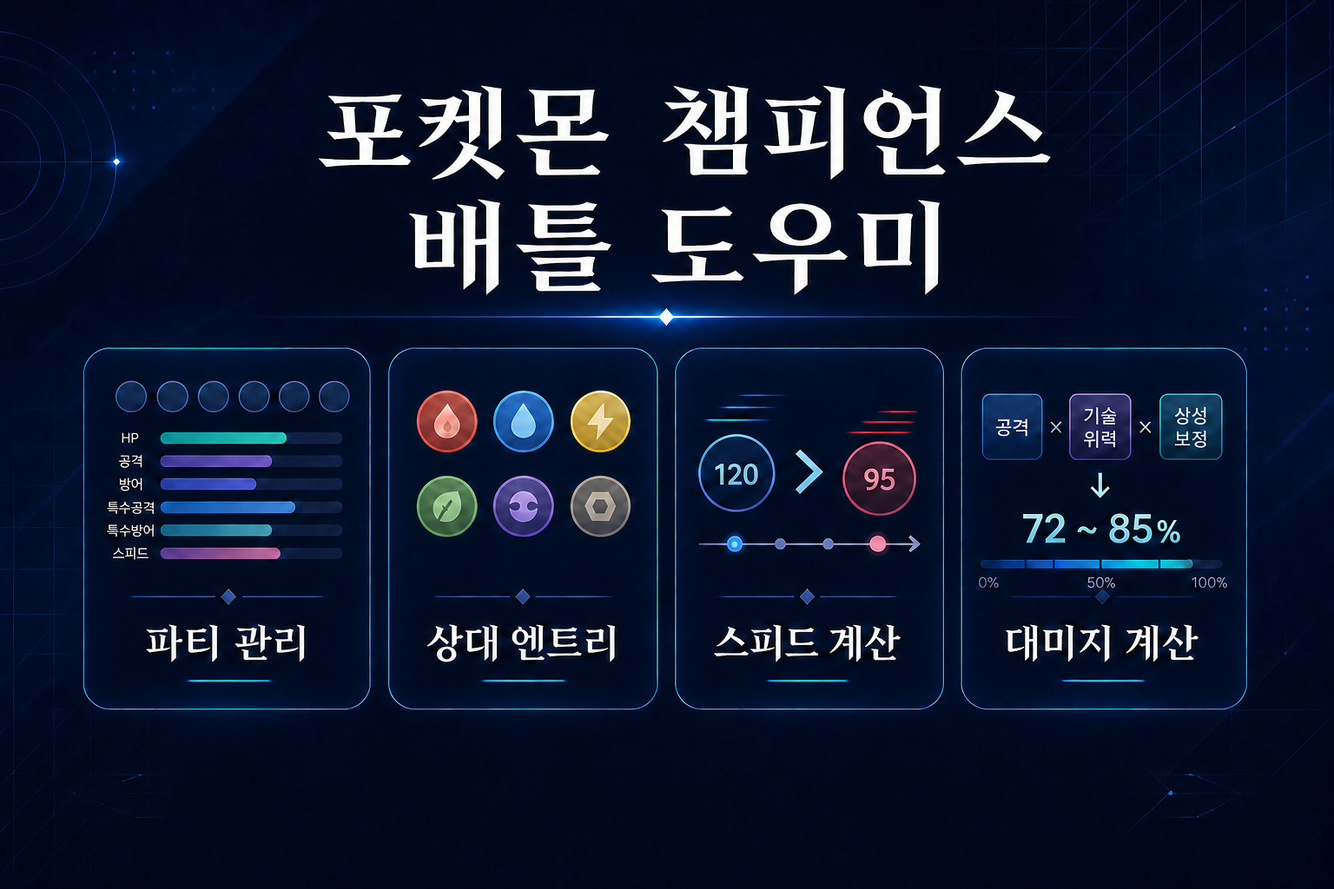
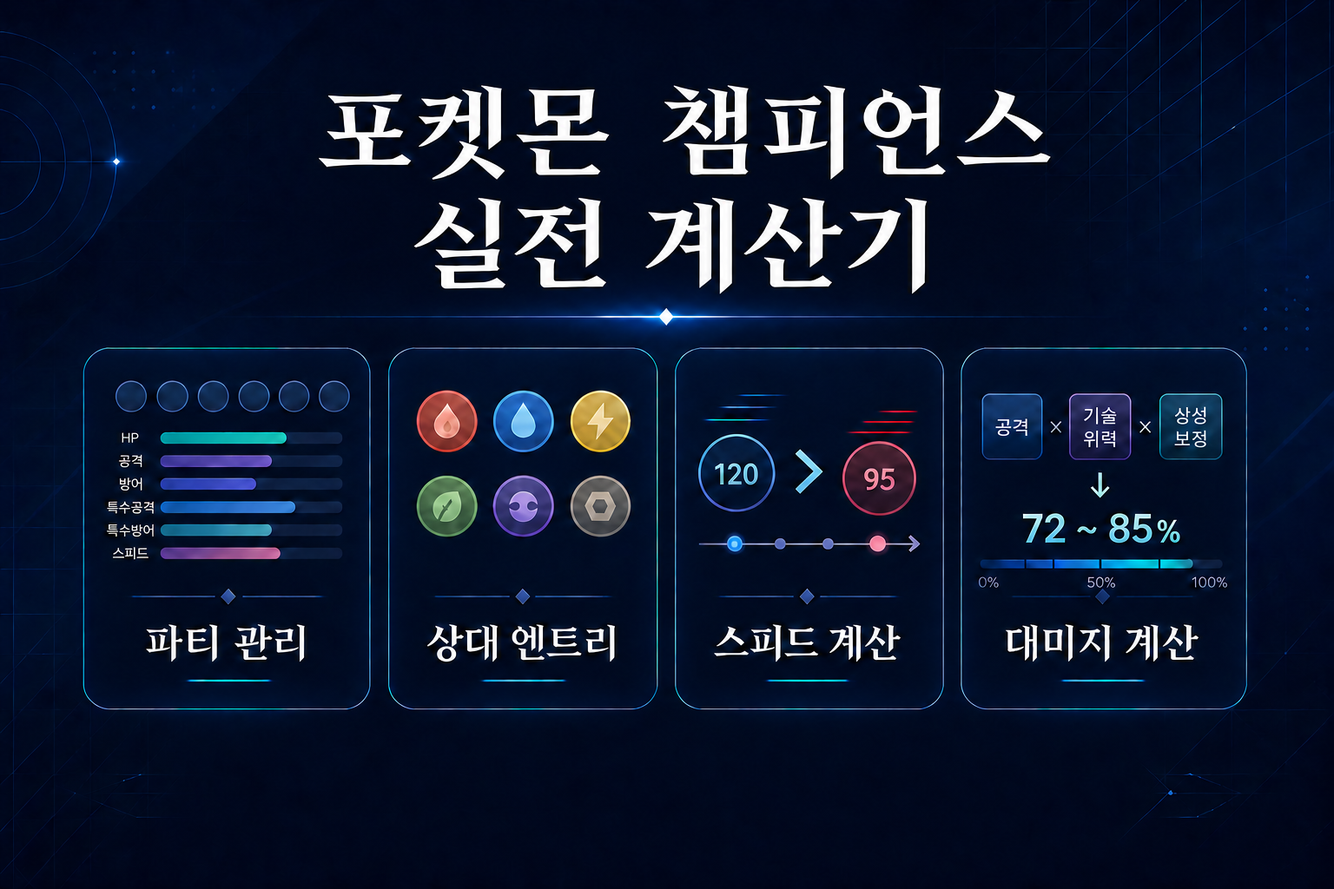
feat: rename service to practical calculator (#42)

diff --git a/src/shared/display/translation.ts b/src/shared/display/translation.ts
@@ -53,7 +53,7 @@ export const UI_TRANSLATIONS: Record<'en' | 'ja', Record<string, string>> = {
     '내 파티 추월컷': 'My Team Speed Cutoffs', '상대 기준': 'Opponent Target', '기준 속도': 'Target Speed', '추월컷': 'Pass', '동속컷': 'Tie', '이미 추월': 'Already ahead', '불가': 'No line', '실전 상태': 'Battle State', '내가 앞섬': 'Ahead', '상대가 앞섬': 'Behind', '동속': 'Tie', '일반': 'Base', '메가': 'Mega', '내 포켓몬': 'My Pokémon', '상대 포켓몬': 'Opponent Pokémon', '기준선': 'Baseline',
     '준속': 'Neutral', '최속': 'Fast', '상한': 'Upper', '하한': 'Lower', '준속 스카프': 'Neutral Scarf', '최속 스카프': 'Fast Scarf', '선택한 상대 없음': 'No opponent selected', '스피드 비교 그래프': 'Speed Comparison Graph',
     '위력': 'Power', '공격분류': 'Category', '물리': 'Physical', '특수': 'Special', '없음': 'None', '무효': 'No effect', '상성': 'Effectiveness', '확정 1타 가능성 있음': 'Possible OHKO', '유리한 2타권': 'Favorable 2HKO', '즉시 마무리 어려움': 'Hard to finish immediately', '상대 엔트리에서 계산 대상 포켓몬을 먼저 채워 주세요.': 'Fill an opponent target first.',
-    '빈 슬롯': 'Empty Slot', '현재': 'Current', '추가 가능': 'Available', '파티 관리': 'Party', '언어 선택': 'Choose language', '한국어': 'Korean', '영어': 'English', '일본어': 'Japanese', '추월컷 계산': 'Speed cutoff calc', '현재 속도': 'Current Speed', '체력 EV': 'HP EV', '방어 EV': 'Defense EV', '특수방어 EV': 'Sp. Def EV', '+방어': '+Defense', '+특수방어': '+Sp. Def', '특방+': 'Sp. Def+', '방어+': 'Defense+', '실대미지': 'Damage', '체력비율': 'HP Percent', '확정 N타': 'KO Count', '계산 상태': 'Result', '자속': 'STAB', '상대 체력': 'Opponent HP', '상대 방어': 'Opponent Defense', '상대 특수방어': 'Opponent Sp. Def', '+특수방어 성격': '+Sp. Def nature', '판정': 'Verdict', '대미지': 'Damage', '비율': 'Percent', '접기': 'Collapse', '펼치기': 'Expand', '세부 조건': 'Detailed conditions', '대미지 계산 불가': 'Damage calc unavailable', '샘플 이름 예시': 'e.g. Jolly Scarf draft', '상대 메모 예시': 'e.g. likely physical set', '엔트리 메모 예시': 'e.g. Dragapult may be Scarf / Rotom revealed Volt Switch / Mimikyu looks like late-game cleaner', '포켓몬 챔피언스 배틀 도우미': 'Pokémon Champions Battle Assistant', '파티 관리, 상대 엔트리, 스피드 계산, 대미지 계산을 한곳에서 정리하는 포켓몬 챔피언스 배틀 도구': 'A Pokémon Champions battle tool for party management, opponent entry, speed checks, and damage calculations in one place.', '포켓몬 챔피언스 배틀 도우미 대표 이미지': 'Pokémon Champions Battle Assistant preview image', '불러오기 실패: JSON 형식을 확인하세요.': 'Import failed: please check the JSON format.', '한 번에 모든 기능을 밀어넣지 않고, 지금 필요한 작업부터 시작합니다.': 'Start from the task you need now instead of dumping every feature at once.', '이 홈은 길찾기 화면입니다. 배틀 준비, 샘플 조정, 도감 확인 중 하나만 고르면 바로 들어갑니다.': 'This home screen is a routing layer. Pick battle prep, sample tuning, or dex lookup and jump straight in.', '사용 흐름': 'Workflow', '바로 시작': 'Start here', '싱글/더블 배틀 준비': 'Battle prep', '샘플 조정 / 자료 확인': 'Build & reference', '파티, 선출, 속도, 대미지 계산을 한 흐름으로 정리합니다.': 'Keep party, picks, speed, and damage in one flow.', '포켓몬 한 마리를 조정하거나 도감 정보를 빠르게 확인합니다.': 'Tune one Pokémon or look up key dex information quickly.', '싱글 배틀 운영': 'Singles workflow', '더블 배틀 운영': 'Doubles workflow', '샘플 조정': 'Sample tuning', '도감 확인': 'Dex lookup', '추천 시작점': 'Recommended start', '자주 쓰는 흐름만 앞에 두고, 세부 기능은 들어간 뒤에 보여 줍니다.': 'Only the common workflows sit up front. Detailed controls stay inside each tool.', '현재 흐름': 'Current workflow', '파티부터 채우고, 상대 공개 정보를 적은 뒤 계산 단계로 넘어갑니다.': 'Start with your party, record revealed opponent info, then move into the calculators.', '더블은 파티와 상대 정리 후 플래너에서 턴 흐름을 봅니다.': 'For doubles, set party and opponent info first, then move into the planner.', '내 포켓몬과 기술 기준을 정리합니다.': 'Set your Pokémon and move baseline first.', '상대 공개 정보와 가정을 정리합니다.': 'Record revealed opponent info and assumptions.', '추월컷과 속도선을 확인합니다.': 'Check cutoffs and speed lines.', '기술 대미지와 조건을 맞춥니다.': 'Check move damage and conditions.', '더블 기준 화력과 행동순을 정리합니다.': 'Review doubles damage and action flow.', '이 화면에서 하는 일': 'What this screen does', '입력 순서': 'Input order', '현재 기준 정보': 'Current context', '내 파티/상대 엔트리를 먼저 맞추면 계산이 덜 흔들립니다.': 'The calculator is more stable once party and opponent entry are set first.', '내 기술 선택 → 상대 기준 확인 → 화력 조건 조정 순서로 보면 됩니다.': 'Use the flow: pick your move → confirm the target baseline → adjust battle conditions.', '선택된 기술': 'Selected move',
+    '빈 슬롯': 'Empty Slot', '현재': 'Current', '추가 가능': 'Available', '파티 관리': 'Party', '언어 선택': 'Choose language', '한국어': 'Korean', '영어': 'English', '일본어': 'Japanese', '추월컷 계산': 'Speed cutoff calc', '현재 속도': 'Current Speed', '체력 EV': 'HP EV', '방어 EV': 'Defense EV', '특수방어 EV': 'Sp. Def EV', '+방어': '+Defense', '+특수방어': '+Sp. Def', '특방+': 'Sp. Def+', '방어+': 'Defense+', '실대미지': 'Damage', '체력비율': 'HP Percent', '확정 N타': 'KO Count', '계산 상태': 'Result', '자속': 'STAB', '상대 체력': 'Opponent HP', '상대 방어': 'Opponent Defense', '상대 특수방어': 'Opponent Sp. Def', '+특수방어 성격': '+Sp. Def nature', '판정': 'Verdict', '대미지': 'Damage', '비율': 'Percent', '접기': 'Collapse', '펼치기': 'Expand', '세부 조건': 'Detailed conditions', '대미지 계산 불가': 'Damage calc unavailable', '샘플 이름 예시': 'e.g. Jolly Scarf draft', '상대 메모 예시': 'e.g. likely physical set', '엔트리 메모 예시': 'e.g. Dragapult may be Scarf / Rotom revealed Volt Switch / Mimikyu looks like late-game cleaner', '포켓몬 챔피언스 실전 계산기': 'Pokémon Champions Battle Calculator', '파티 관리, 상대 엔트리, 스피드 계산, 대미지 계산을 한곳에서 정리하는 포켓몬 챔피언스 배틀 도구': 'A Pokémon Champions battle tool for party management, opponent entry, speed checks, and damage calculations in one place.', '포켓몬 챔피언스 실전 계산기 대표 이미지': 'Pokémon Champions Battle Calculator preview image', '불러오기 실패: JSON 형식을 확인하세요.': 'Import failed: please check the JSON format.', '한 번에 모든 기능을 밀어넣지 않고, 지금 필요한 작업부터 시작합니다.': 'Start from the task you need now instead of dumping every feature at once.', '이 홈은 길찾기 화면입니다. 배틀 준비, 샘플 조정, 도감 확인 중 하나만 고르면 바로 들어갑니다.': 'This home screen is a routing layer. Pick battle prep, sample tuning, or dex lookup and jump straight in.', '사용 흐름': 'Workflow', '바로 시작': 'Start here', '싱글/더블 배틀 준비': 'Battle prep', '샘플 조정 / 자료 확인': 'Build & reference', '파티, 선출, 속도, 대미지 계산을 한 흐름으로 정리합니다.': 'Keep party, picks, speed, and damage in one flow.', '포켓몬 한 마리를 조정하거나 도감 정보를 빠르게 확인합니다.': 'Tune one Pokémon or look up key dex information quickly.', '싱글 배틀 운영': 'Singles workflow', '더블 배틀 운영': 'Doubles workflow', '샘플 조정': 'Sample tuning', '도감 확인': 'Dex lookup', '추천 시작점': 'Recommended start', '자주 쓰는 흐름만 앞에 두고, 세부 기능은 들어간 뒤에 보여 줍니다.': 'Only the common workflows sit up front. Detailed controls stay inside each tool.', '현재 흐름': 'Current workflow', '파티부터 채우고, 상대 공개 정보를 적은 뒤 계산 단계로 넘어갑니다.': 'Start with your party, record revealed opponent info, then move into the calculators.', '더블은 파티와 상대 정리 후 플래너에서 턴 흐름을 봅니다.': 'For doubles, set party and opponent info first, then move into the planner.', '내 포켓몬과 기술 기준을 정리합니다.': 'Set your Pokémon and move baseline first.', '상대 공개 정보와 가정을 정리합니다.': 'Record revealed opponent info and assumptions.', '추월컷과 속도선을 확인합니다.': 'Check cutoffs and speed lines.', '기술 대미지와 조건을 맞춥니다.': 'Check move damage and conditions.', '더블 기준 화력과 행동순을 정리합니다.': 'Review doubles damage and action flow.', '이 화면에서 하는 일': 'What this screen does', '입력 순서': 'Input order', '현재 기준 정보': 'Current context', '내 파티/상대 엔트리를 먼저 맞추면 계산이 덜 흔들립니다.': 'The calculator is more stable once party and opponent entry are set first.', '내 기술 선택 → 상대 기준 확인 → 화력 조건 조정 순서로 보면 됩니다.': 'Use the flow: pick your move → confirm the target baseline → adjust battle conditions.', '선택된 기술': 'Selected move',
     '노력': 'Hardy', '외로움': 'Lonely', '용감': 'Brave', '고집': 'Adamant', '개구쟁이': 'Naughty', '대담': 'Bold', '온순': 'Docile', '무사태평': 'Relaxed', '장난꾸러기': 'Impish', '촐랑': 'Lax', '겁쟁이': 'Timid', '성급': 'Hasty', '성실': 'Serious', '명랑': 'Jolly', '천진난만': 'Naive', '조심': 'Modest', '의젓': 'Mild', '냉정': 'Quiet', '수줍음': 'Bashful', '덜렁': 'Rash', '차분': 'Calm', '얌전': 'Gentle', '건방': 'Sassy', '신중': 'Careful', '변덕': 'Quirky',
   },
   ja: {
@@ -109,7 +109,7 @@ export const UI_TRANSLATIONS: Record<'en' | 'ja', Record<string, string>> = {
     '내 파티 추월컷': '自分の抜きライン', '상대 기준': '相手基準', '기준 속도': '基準素早さ', '추월컷': '抜き', '동속컷': '同速', '이미 추월': 'すでに上', '불가': '不可', '실전 상태': '対面状態', '내가 앞섬': '上', '상대가 앞섬': '下', '동속': '同速', '일반': '通常', '메가': 'メガ', '내 포켓몬': '自分のポケモン', '상대 포켓몬': '相手ポケモン', '기준선': '基準線',
     '준속': '準速', '최속': '最速', '상한': '上限', '하한': '下限', '준속 스카프': '準速スカーフ', '최속 스카프': '最速スカーフ', '선택한 상대 없음': '相手未選択', '스피드 비교 그래프': '素早さ比較グラフ',
     '위력': '威力', '공격분류': '攻撃分類', '물리': '物理', '특수': '特殊', '없음': 'なし', '무효': '無効', '상성': '相性', '확정 1타 가능성 있음': '一撃圏の可能性あり', '유리한 2타권': '有利な2発圏内', '즉시 마무리 어려움': '即処理は難しい', '상대 엔트리에서 계산 대상 포켓몬을 먼저 채워 주세요.': '先に相手エントリーへ計算対象のポケモンを入れてください。',
-    '빈 슬롯': '空きスロット', '현재': '現在', '추가 가능': '追加可能', '파티 관리': 'パーティ管理', '언어 선택': '言語選択', '한국어': '韓国語', '영어': '英語', '일본어': '日本語', '추월컷 계산': '抜きライン計算', '현재 속도': '現在の素早さ', '체력 EV': 'HP努力値', '방어 EV': '防御努力値', '특수방어 EV': '特防努力値', '+방어': '+防御', '+특수방어': '+特防', '특방+': '特防+', '방어+': '防御+', '실대미지': '実ダメージ', '체력비율': 'HP割合', '확정 N타': '確定N発', '계산 상태': '計算状態', '자속': '一致', '상대 체력': '相手HP', '상대 방어': '相手防御', '상대 특수방어': '相手特防', '+특수방어 성격': '+特防性格', '판정': '判定', '대미지': 'ダメージ', '비율': '割合', '접기': '折りたたむ', '펼치기': '展開', '세부 조건': '詳細条件', '대미지 계산 불가': 'ダメージ計算不可', '샘플 이름 예시': '例: ようきスカーフ案', '상대 메모 예시': '例: 物理型の可能性高め', '엔트리 메모 예시': '例: ドラパルトはスカーフかも / ロトムはボルチェン公開 / ミミッキュは終盤スイーパー寄り', '포켓몬 챔피언스 배틀 도우미': 'ポケモンチャンピオンズ バトルアシスタント', '파티 관리, 상대 엔트리, 스피드 계산, 대미지 계산을 한곳에서 정리하는 포켓몬 챔피언스 배틀 도구': 'パーティ管理・相手エントリー・素早さ計算・ダメージ計算を1か所でまとめられるポケモンチャンピオンズのバトルツール。', '포켓몬 챔피언스 배틀 도우미 대표 이미지': 'ポケモンチャンピオンズ バトルアシスタントのプレビュー画像', '불러오기 실패: JSON 형식을 확인하세요.': '読み込みに失敗しました。JSON形式を確認してください。', '한 번에 모든 기능을 밀어넣지 않고, 지금 필요한 작업부터 시작합니다.': '一度にすべての機能を押しつけず、今必要な作業から始める。', '이 홈은 길찾기 화면입니다. 배틀 준비, 샘플 조정, 도감 확인 중 하나만 고르면 바로 들어갑니다.': 'このホームは案内板だ。バトル準備、サンプル調整、図鑑確認のどれか一つを選べばすぐ入れる。', '사용 흐름': '使用フロー', '바로 시작': 'ここから開始', '싱글/더블 배틀 준비': 'バトル準備', '샘플 조정 / 자료 확인': '調整 / 参照', '파티, 선출, 속도, 대미지 계산을 한 흐름으로 정리합니다.': 'パーティ、選出、素早さ、ダメージ計算を一つの流れで整理する。', '포켓몬 한 마리를 조정하거나 도감 정보를 빠르게 확인합니다.': '1匹を調整したり、図鑑情報をすばやく確認したりする。', '싱글 배틀 운영': 'シングル運用', '더블 배틀 운영': 'ダブル運用', '샘플 조정': 'サンプル調整', '도감 확인': '図鑑確認', '추천 시작점': 'おすすめの入口', '자주 쓰는 흐름만 앞에 두고, 세부 기능은 들어간 뒤에 보여 줍니다.': 'よく使う流れだけ前に出し、細かい機能は中に入ってから見せる。', '현재 흐름': '現在のフロー', '파티부터 채우고, 상대 공개 정보를 적은 뒤 계산 단계로 넘어갑니다.': 'まず自分のパーティを埋め、相手の公開情報を書いてから計算に進む。', '더블은 파티와 상대 정리 후 플래너에서 턴 흐름을 봅니다.': 'ダブルはパーティと相手情報を整えたあと、プランナーでターンの流れを見る。', '내 포켓몬과 기술 기준을 정리합니다.': '自分のポケモンと技の基準を整える。', '상대 공개 정보와 가정을 정리합니다.': '相手の公開情報と想定を整理する。', '추월컷과 속도선을 확인합니다.': '抜きラインと素早さ帯を確認する。', '기술 대미지와 조건을 맞춥니다.': '技ダメージと条件を合わせる。', '더블 기준 화력과 행동순을 정리합니다.': 'ダブル基準の火力と行動順を整理する。', '이 화면에서 하는 일': 'この画面でやること', '입력 순서': '入力順', '현재 기준 정보': '現在の基準情報', '내 파티/상대 엔트리를 먼저 맞추면 계산이 덜 흔들립니다.': '自分のパーティと相手エントリーを先に整えると計算がぶれにくい。', '내 기술 선택 → 상대 기준 확인 → 화력 조건 조정 순서로 보면 됩니다.': '自分の技選択 → 相手基準確認 → 火力条件調整の順で見ればいい。', '선택된 기술': '選択中の技',
+    '빈 슬롯': '空きスロット', '현재': '現在', '추가 가능': '追加可能', '파티 관리': 'パーティ管理', '언어 선택': '言語選択', '한국어': '韓国語', '영어': '英語', '일본어': '日本語', '추월컷 계산': '抜きライン計算', '현재 속도': '現在の素早さ', '체력 EV': 'HP努力値', '방어 EV': '防御努力値', '특수방어 EV': '特防努力値', '+방어': '+防御', '+특수방어': '+特防', '특방+': '特防+', '방어+': '防御+', '실대미지': '実ダメージ', '체력비율': 'HP割合', '확정 N타': '確定N発', '계산 상태': '計算状態', '자속': '一致', '상대 체력': '相手HP', '상대 방어': '相手防御', '상대 특수방어': '相手特防', '+특수방어 성격': '+特防性格', '판정': '判定', '대미지': 'ダメージ', '비율': '割合', '접기': '折りたたむ', '펼치기': '展開', '세부 조건': '詳細条件', '대미지 계산 불가': 'ダメージ計算不可', '샘플 이름 예시': '例: ようきスカーフ案', '상대 메모 예시': '例: 物理型の可能性高め', '엔트리 메모 예시': '例: ドラパルトはスカーフかも / ロトムはボルチェン公開 / ミミッキュは終盤スイーパー寄り', '포켓몬 챔피언스 실전 계산기': 'ポケモンチャンピオンズ 実戦計算ツール', '파티 관리, 상대 엔트리, 스피드 계산, 대미지 계산을 한곳에서 정리하는 포켓몬 챔피언스 배틀 도구': 'パーティ管理・相手エントリー・素早さ計算・ダメージ計算を1か所でまとめられるポケモンチャンピオンズのバトルツール。', '포켓몬 챔피언스 실전 계산기 대표 이미지': 'ポケモンチャンピオンズ 実戦計算ツールのプレビュー画像', '불러오기 실패: JSON 형식을 확인하세요.': '読み込みに失敗しました。JSON形式を確認してください。', '한 번에 모든 기능을 밀어넣지 않고, 지금 필요한 작업부터 시작합니다.': '一度にすべての機能を押しつけず、今必要な作業から始める。', '이 홈은 길찾기 화면입니다. 배틀 준비, 샘플 조정, 도감 확인 중 하나만 고르면 바로 들어갑니다.': 'このホームは案内板だ。バトル準備、サンプル調整、図鑑確認のどれか一つを選べばすぐ入れる。', '사용 흐름': '使用フロー', '바로 시작': 'ここから開始', '싱글/더블 배틀 준비': 'バトル準備', '샘플 조정 / 자료 확인': '調整 / 参照', '파티, 선출, 속도, 대미지 계산을 한 흐름으로 정리합니다.': 'パーティ、選出、素早さ、ダメージ計算を一つの流れで整理する。', '포켓몬 한 마리를 조정하거나 도감 정보를 빠르게 확인합니다.': '1匹を調整したり、図鑑情報をすばやく確認したりする。', '싱글 배틀 운영': 'シングル運用', '더블 배틀 운영': 'ダブル運用', '샘플 조정': 'サンプル調整', '도감 확인': '図鑑確認', '추천 시작점': 'おすすめの入口', '자주 쓰는 흐름만 앞에 두고, 세부 기능은 들어간 뒤에 보여 줍니다.': 'よく使う流れだけ前に出し、細かい機能は中に入ってから見せる。', '현재 흐름': '現在のフロー', '파티부터 채우고, 상대 공개 정보를 적은 뒤 계산 단계로 넘어갑니다.': 'まず自分のパーティを埋め、相手の公開情報を書いてから計算に進む。', '더블은 파티와 상대 정리 후 플래너에서 턴 흐름을 봅니다.': 'ダブルはパーティと相手情報を整えたあと、プランナーでターンの流れを見る。', '내 포켓몬과 기술 기준을 정리합니다.': '自分のポケモンと技の基準を整える。', '상대 공개 정보와 가정을 정리합니다.': '相手の公開情報と想定を整理する。', '추월컷과 속도선을 확인합니다.': '抜きラインと素早さ帯を確認する。', '기술 대미지와 조건을 맞춥니다.': '技ダメージと条件を合わせる。', '더블 기준 화력과 행동순을 정리합니다.': 'ダブル基準の火力と行動順を整理する。', '이 화면에서 하는 일': 'この画面でやること', '입력 순서': '入力順', '현재 기준 정보': '現在の基準情報', '내 파티/상대 엔트리를 먼저 맞추면 계산이 덜 흔들립니다.': '自分のパーティと相手エントリーを先に整えると計算がぶれにくい。', '내 기술 선택 → 상대 기준 확인 → 화력 조건 조정 순서로 보면 됩니다.': '自分の技選択 → 相手基準確認 → 火力条件調整の順で見ればいい。', '선택된 기술': '選択中の技',
     '배틀': 'バトル', '분석 도구': '分析ツール', '사용 중인 파티': '使用中のパーティ', '이 파티로 대면 보기': 'このパーティで対面を見る',
     '노력': 'がんばりや', '외로움': 'さみしがり', '용감': 'ゆうかん', '고집': 'いじっぱり', '개구쟁이': 'やんちゃ', '대담': 'ずぶとい', '온순': 'すなお', '무사태평': 'のんき', '장난꾸러기': 'わんぱく', '촐랑': 'のうてんき', '겁쟁이': 'おくびょう', '성급': 'せっかち', '성실': 'まじめ', '명랑': 'ようき', '천진난만': 'むじゃき', '조심': 'ひかえめ', '의젓': 'おっとり', '냉정': 'れいせい', '수줍음': 'てれや', '덜렁': 'うっかりや', '차분': 'おだやか', '얌전': 'おとなしい', '건방': 'なまいき', '신중': 'しんちょう', '변덕': 'きまぐれ',
   },

diff --git a/index.html b/index.html
@@ -3,18 +3,18 @@
   <head>
     <meta charset="UTF-8" />
     <meta name="viewport" content="width=device-width, initial-scale=1.0" />
-    <title>포켓몬 챔피언스 배틀 도우미</title>
+    <title>포켓몬 챔피언스 실전 계산기</title>
     <meta name="description" content="파티 관리, 상대 엔트리, 스피드 계산, 대미지 계산을 한곳에서 정리하는 포켓몬 챔피언스 배틀 도구" />
     <meta name="theme-color" content="#0f172a" />
     <meta property="og:type" content="website" />
     <meta property="og:locale" content="ko_KR" />
-    <meta property="og:title" content="포켓몬 챔피언스 배틀 도우미" />
+    <meta property="og:title" content="포켓몬 챔피언스 실전 계산기" />
     <meta property="og:description" content="파티 관리, 상대 엔트리, 스피드 계산, 대미지 계산을 한곳에서 정리하는 포켓몬 챔피언스 배틀 도구" />
     <meta property="og:url" content="https://w8385.dev/Pokemon-Champions-Assistant/" />
     <meta property="og:image" content="https://w8385.dev/Pokemon-Champions-Assistant/og-image.png" />
-    <meta property="og:image:alt" content="포켓몬 챔피언스 배틀 도우미 대표 이미지" />
+    <meta property="og:image:alt" content="포켓몬 챔피언스 실전 계산기 대표 이미지" />
     <meta name="twitter:card" content="summary_large_image" />
-    <meta name="twitter:title" content="포켓몬 챔피언스 배틀 도우미" />
+    <meta name="twitter:title" content="포켓몬 챔피언스 실전 계산기" />
     <meta name="twitter:description" content="파티 관리, 상대 엔트리, 스피드 계산, 대미지 계산을 한곳에서 정리하는 포켓몬 챔피언스 배틀 도구" />
     <meta name="twitter:image" content="https://w8385.dev/Pokemon-Champions-Assistant/og-image.png" />
     <link rel="canonical" href="https://w8385.dev/Pokemon-Champions-Assistant/" />

diff --git a/src/App.tsx b/src/App.tsx
@@ -2966,9 +2966,9 @@ export default function App() {
 
   React.useEffect(() => {
     if (typeof document === 'undefined') return
-    const siteTitle = lt('포켓몬 챔피언스 배틀 도우미')
+    const siteTitle = lt('포켓몬 챔피언스 실전 계산기')
     const siteDescription = lt('파티 관리, 상대 엔트리, 스피드 계산, 대미지 계산을 한곳에서 정리하는 포켓몬 챔피언스 배틀 도구')
-    const siteImageAlt = lt('포켓몬 챔피언스 배틀 도우미 대표 이미지')
+    const siteImageAlt = lt('포켓몬 챔피언스 실전 계산기 대표 이미지')
     document.title = siteTitle
     const setNamedMeta = (name: string, content: string) => {
       const target = document.querySelector(`meta[name="${name}"]`)
@@ -4852,7 +4852,7 @@ export default function App() {
           <div className="header-title-row">
             <div className="header-title-stack">
               <div className="header-main-row">
-                <h1 className="visually-hidden">{lt('포켓몬 챔피언스 배틀 도우미')}</h1>
+                <h1 className="visually-hidden">{lt('포켓몬 챔피언스 실전 계산기')}</h1>
                 <div className="header-utility-row">
                   <div className="header-icon-actions">
                   <div className="language-menu-wrap header-language-wrap">
